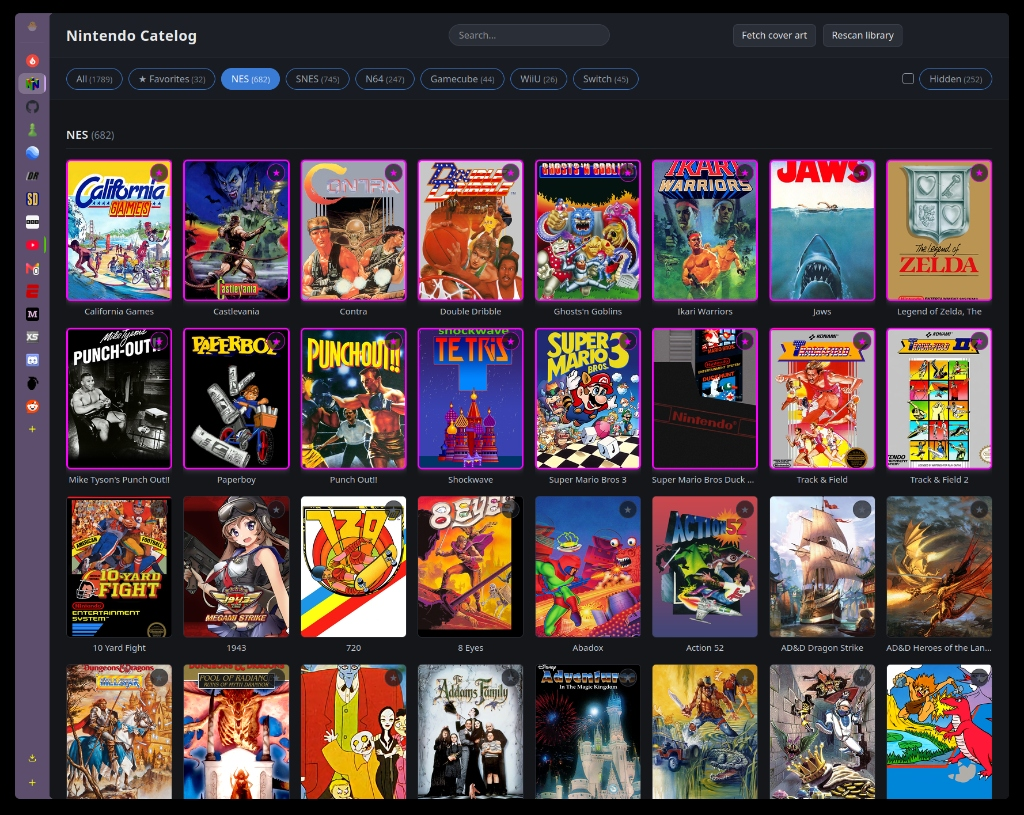
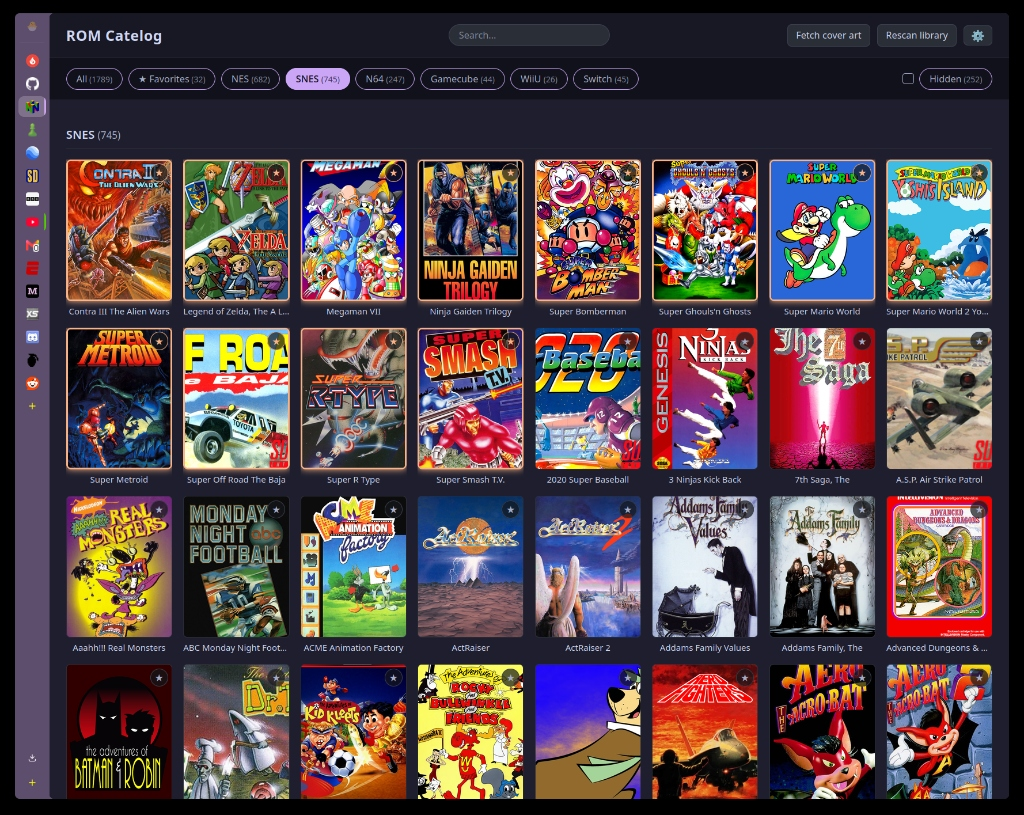
Update screenshots, documentation, and remove all emojis

diff --git a/templates/index.html b/templates/index.html
@@ -31,13 +31,13 @@
     <span id="status"></span>
     <button id="fetchCoversBtn">Fetch cover art</button>
     <button id="rescanBtn">Rescan library</button>
-    <button id="settingsBtn" title="Settings" class="icon-btn" aria-label="Settings">⚙</button>
+    <button id="settingsBtn" title="Settings" class="icon-btn" aria-label="Settings"><svg width="15" height="15" viewBox="0 0 24 24" fill="none" stroke="currentColor" stroke-width="2" stroke-linecap="round" stroke-linejoin="round"><circle cx="12" cy="12" r="3"></circle><path d="M19.4 15a1.65 1.65 0 0 0 .33 1.82l.06.06a2 2 0 0 1 0 2.83 2 2 0 0 1-2.83 0l-.06-.06a1.65 1.65 0 0 0-1.82-.33 1.65 1.65 0 0 0-1 1.51V21a2 2 0 0 1-2 2 2 2 0 0 1-2-2v-.09A1.65 1.65 0 0 0 9 19.4a1.65 1.65 0 0 0-1.82.33l-.06.06a2 2 0 0 1-2.83 0 2 2 0 0 1 0-2.83l.06-.06a1.65 1.65 0 0 0 .33-1.82 1.65 1.65 0 0 0-1.51-1H3a2 2 0 0 1-2-2 2 2 0 0 1 2-2h.09A1.65 1.65 0 0 0 4.6 9a1.65 1.65 0 0 0-.33-1.82l-.06-.06a2 2 0 0 1 0-2.83 2 2 0 0 1 2.83 0l.06.06a1.65 1.65 0 0 0 1.82.33H9a1.65 1.65 0 0 0 1-1.51V3a2 2 0 0 1 2-2 2 2 0 0 1 2 2v.09a1.65 1.65 0 0 0 1 1.51 1.65 1.65 0 0 0 1.82-.33l.06-.06a2 2 0 0 1 2.83 0 2 2 0 0 1 0 2.83l-.06.06a1.65 1.65 0 0 0-.33 1.82V9a1.65 1.65 0 0 0 1.51 1H21a2 2 0 0 1 2 2 2 2 0 0 1-2 2h-.09a1.65 1.65 0 0 0-1.51 1z"></path></svg></button>
   </div>
 </header>
 
 <nav class="tabs">
   <button class="tab active" data-target="all">All</button>
-  <button class="tab" data-target="favorites">★ Favorites</button>
+  <button class="tab" data-target="favorites">Favorites</button>
   {% for sys_id, sys_data in library.items() %}
   <button class="tab" data-target="{{ sys_id }}">{{ sys_data.name }} <span class="count">({{ sys_data.games|length }})</span></button>
   {% endfor %}
@@ -57,8 +57,8 @@
     <div class="grid">
       {% for game in sys_data.games %}
       <div class="card" data-system="{{ sys_id }}" data-path="{{ game.path }}" data-filename="{{ game.filename }}" data-favorite="{{ 'true' if game.favorite else 'false' }}" data-has-cover="{{ 'true' if game.cover else 'false' }}" data-hidden="{{ 'true' if game.hidden else 'false' }}">
-        <button class="star {{ 'active' if game.favorite else '' }}" title="Toggle favorite">★</button>
-        <button class="hide-toggle {{ 'active' if game.hidden else '' }}" title="{{ 'Unhide game' if game.hidden else 'Hide game' }}">{{ '👁' if game.hidden else '🙈' }}</button>
+        <button class="star {{ 'active' if game.favorite else '' }}" title="Toggle favorite"><svg width="12" height="12" viewBox="0 0 24 24" fill="currentColor"><polygon points="12 2 15.09 8.26 22 9.27 17 14.14 18.18 21.02 12 17.77 5.82 21.02 7 14.14 2 9.27 8.91 8.26 12 2"></polygon></svg></button>
+        <button class="hide-toggle {{ 'active' if game.hidden else '' }}" title="{{ 'Unhide game' if game.hidden else 'Hide game' }}"><svg width="13" height="13" viewBox="0 0 24 24" fill="none" stroke="currentColor" stroke-width="2" stroke-linecap="round" stroke-linejoin="round"><path d="M17.94 17.94A10.07 10.07 0 0 1 12 20c-7 0-11-8-11-8a18.45 18.45 0 0 1 5.06-5.94M9.9 4.24A9.12 9.12 0 0 1 12 4c7 0 11 8 11 8a18.5 18.5 0 0 1-2.16 3.19m-6.72-1.07a3 3 0 1 1-4.24-4.24"></path><line x1="1" y1="1" x2="23" y2="23"></line></svg></button>
         <div class="cover">
           {% if game.cover %}
             <img src="{{ game.cover }}" alt="{{ game.title }}" loading="lazy">
@@ -81,7 +81,7 @@
 
 <dialog id="settingsDialog" class="settings-dialog">
   <div class="modal-header">
-    <h3>⚙ Settings & Customization</h3>
+    <h3>Settings & Customization</h3>
     <button id="closeSettingsBtn" class="close-modal-btn" type="button" aria-label="Close">&times;</button>
   </div>
   <div class="modal-body">
@@ -228,7 +228,7 @@
           </div>
         </label>
         <label class="toggle-row">
-          <span>Show "★ Favorites" Tab</span>
+          <span>Show "Favorites" Tab</span>
           <div class="switch">
             <input type="checkbox" id="toggleFavoritesTab" {% if settings.visibility.show_favorites_tab %}checked{% endif %}>
             <span class="slider"></span>
@@ -357,7 +357,6 @@ document.querySelectorAll('.hide-toggle').forEach(btn => {
       if (data.ok) {
         card.dataset.hidden = data.hidden ? 'true' : 'false';
         btn.classList.toggle('active', data.hidden);
-        btn.textContent = data.hidden ? '👁' : '🙈';
         btn.title = data.hidden ? 'Unhide game' : 'Hide game';
         applyFilters();
       }

diff --git a/README.md b/README.md
@@ -1,4 +1,4 @@
-# Nintendo & Retro Emulator Web Catalog (ROM Cat)
+# ROM Cat: Retro & Modern Emulator Web Catalog
 
 [![Python](https://img.shields.io/badge/Python-3.10+-3776AB?logo=python&logoColor=white)](https://python.org)
 [![Flask](https://img.shields.io/badge/Flask-Web%20Framework-000000?logo=flask&logoColor=white)](https://flask.palletsprojects.com/)
@@ -6,25 +6,35 @@
 [![YAML](https://img.shields.io/badge/Config-YAML-CB171E?logo=yaml&logoColor=white)](https://yaml.org)
 [![Linux](https://img.shields.io/badge/Platform-Linux%20%2F%20Wayland%20%2F%20X11-FCC624?logo=linux&logoColor=black)](https://kernel.org)
 
-A fast, lightweight, self-hosted web catalog and remote launcher for your retro and modern ROM collection. It runs locally alongside your installed emulators (Flatpak or native binaries), providing an interactive web dashboard with cover art, system filtering, instant search, favorites tracking, and one-click game launching directly into native desktop emulator windows.
+A fast, lightweight, self-hosted web catalog and remote launcher for your retro and modern ROM collection. It runs locally alongside your installed emulators (Flatpak, AppImage, or native binaries), providing an interactive web dashboard with cover art, system filtering, instant search, favorites tracking, one-click game launching, and customizable themes.
 
 ---
 
-## Screenshot
+## Screenshots
 
-![Nintendo Catalog Dashboard](screenshots/catalog.jpg)
+### Main Dashboard (Catppuccin Theme)
+![ROM Catalog Dashboard](screenshots/catalog.jpg)
+
+### Settings & Customization Modal
+![Settings Modal](screenshots/settings.png)
+
+### Nord Frost Theme
+![Nord Theme](screenshots/nord.jpg)
 
 ---
 
 ## Features
 
 - **Direct Native Emulator Launching**: Games launch in your real desktop emulators (Flatpak, native binaries, or RetroArch cores) on the host machine. No slow or inaccurate in-browser emulation.
+- **Built-in Settings & Theme Customization**: Click the gear icon in the header to customize the catalog title, select from 6 built-in theme presets, or configure custom colors with live previews.
+- **Automatic High-Contrast Text**: Active tab text dynamically detects background color luminance to ensure legibility on both bright and dark themes.
+- **UI Visibility Controls**: Toggle visibility of the search bar, cover scraping buttons, rescan button, numeric ROM counts, and tabs.
 - **System Tabs & Live Counters**: Instant switching between systems (e.g. NES, SNES, N64, Gamecube, Wii U, Switch, Favorites, All, Hidden).
 - **Fast Search & Filtering**: Real-time title search across thousands of ROMs with automatic title normalization (stripping tags like `[!]`, `(USA)`, `(Rev 1)`, `.nkit`).
 - **Automated Cover Art Scraping**: One-click cover fetching from SteamGridDB with automatic image optimization and local caching in `static/covers/`.
 - **Manual Cover Art Override**: Drop custom cover art directly into the web UI or filesystem for unmatched or homebrew titles.
 - **Favorites & Visibility Management**: Toggle game favorites with custom glowing highlights, or hide unwanted duplicates/updates from the main catalog.
-- **Zero Heavy Databases**: Library state is indexed dynamically from your real directory structure, with cached metadata stored in lightweight JSON files.
+- **Zero Heavy Databases**: Library state is indexed dynamically from your real directory structure, with cached metadata and settings stored in lightweight JSON files.
 
 ---
 
@@ -67,6 +77,46 @@ Open your browser and navigate to:
 http://localhost:8420
 ```
 Or use your machine's local IP / Tailscale IP (e.g. `http://<server-ip>:8420`).
+
+---
+
+## Settings and Customization
+
+ROM Cat includes a Settings interface directly in the web UI (accessible via the gear icon in the top header).
+
+### 1. General Settings
+- **Catalog Title**: Update the dashboard title and browser tab title on the fly.
+
+### 2. Theme Presets
+- **Default Dark**: Slate dark background with blue accents and magenta favorite glow.
+- **Pure OLED**: Pitch black (`#000000`) background with cyan accents and gold favorite highlights.
+- **Catppuccin**: Soft purple pastel theme with lavender accents and peach borders.
+- **Cyberpunk**: Dark neon theme with bright yellow accents and hot pink glow.
+- **Nord Frost**: Arctic blue and slate gray palette with soft amber highlights.
+- **Emerald**: Forest dark green background with emerald accents and sky blue highlights.
+
+### 3. Custom Color Pickers
+Every color element can be fine-tuned individually with real-time live preview:
+- Body Background
+- Header Bar
+- Tabs Bar
+- Card Background
+- Primary Accent (Tabs & Focus rings)
+- Selected Tab Text Color (with automatic luminance contrast detection)
+- Favorite Star & Glowing Border
+- Primary Text
+- Muted Text & Details
+
+### 4. UI Visibility Toggles
+Customize which elements appear on your dashboard:
+- Show / Hide Search Bar
+- Show / Hide "Fetch Cover Art" Button
+- Show / Hide "Rescan Library" Button
+- Show / Hide ROM Count Badges (e.g. `(42)`)
+- Show / Hide "Favorites" Tab
+- Show / Hide "Hidden" Tab & Hide Controls
+
+Settings are stored on disk in `settings.json` and persist across all devices connected to your network.
 
 ---
 
@@ -171,101 +221,6 @@ To add a new console (for example, Game Boy Advance):
 
 ---
 
-## How to Edit Colors and Theme
-
-All styles, colors, active tabs, buttons, borders, and glow effects are managed in:
-`static/css/style.css`
-
-### Color Reference Table
-
-| UI Element | CSS Selector | Default Color | Description |
-|---|---|---|---|
-| **Main Background** | `body` | `#14161a` | Dark background for the whole page |
-| **Primary Text** | `body` | `#e8e8e8` | Base text color |
-| **Header Bar** | `header` | `#1c1f26` | Top navigation bar background |
-| **System Tabs Bar** | `.tabs` | `#181b21` | Category pill bar background |
-| **Borders & Dividers** | `header`, `.tabs`, `h2` | `#2a2e37` | Subtle section divider borders |
-| **Button Background** | `button` | `#2a2e37` | Standard button background |
-| **Button Border** | `button` | `#3a3f4b` | Standard button border |
-| **Button Hover** | `button:hover` | `#343a46` | Button background when hovered |
-| **Active Tab Background** | `.tab.active` | `#3a7bd5` | Blue accent on selected system tab |
-| **Tab Outline** | `.tab` | `#3a7bd5` | Inactive tab pill border |
-| **Search Input Box** | `#searchInput` | `#2a2e37` | Search input background |
-| **Search Focus Outline** | `#searchInput:focus` | `#3a7bd5` | Search box glowing highlight |
-| **Cover Card Box** | `.cover` | `#22262e` | Default cover background placeholder |
-| **Favorite Star (Inactive)** | `.star` | `#5a6270` | Gray inactive favorite star icon |
-| **Favorite Star (Hover)** | `.star:hover` | `#d5acd6` | Light magenta star on hover |
-| **Favorite Star (Active)** | `.star.active` | `#ff00ff` | Bright magenta star when favorited |
-| **Favorite Card Border** | `.card[data-favorite="true"] .cover` | `#ff00ff` | 3px magenta border on favorited cards |
-| **Favorite Card Glow** | `.card[data-favorite="true"] .cover` | `rgba(213, 172, 214, 0.4)` | Outer box-shadow glow on favorited cards |
-| **Hidden Item Toggle** | `.hide-toggle:hover` | `#e07a7a` | Red outline on hide button hover |
-
----
-
-### Customizing Key Color Elements
-
-#### 1. Changing the Primary Accent Color (Tabs & Focus)
-To change the blue accent color across the tabs and search box, update `#3a7bd5` in `static/css/style.css`:
-
-```css
-/* Inactive tab border */
-.tab {
-  border: 1px solid #3a7bd5; /* Replace with your color */
-}
-
-/* Active tab highlight */
-.tab.active {
-  background: #3a7bd5;     /* Replace with your color */
-  border-color: #3a7bd5; /* Replace with your color */
-  color: #fff;
-}
-
-/* Search bar focus ring */
-#searchInput:focus {
-  border-color: #3a7bd5;
-  box-shadow: 0 0 6px rgba(58, 123, 213, 0.3);
-}
-```
-
-#### 2. Changing the Favorite Star and Card Glow Color
-To change the bright magenta favorite glow to gold, green, cyan, or red, update lines 188-234 in `static/css/style.css`:
-
-```css
-/* Star icon active color */
-.star.active {
-  color: #f1c40f; /* e.g. Gold */
-  border-color: #f1c40f;
-}
-
-/* Favorite card glowing border */
-.card[data-favorite="true"] .cover {
-  border: 3px solid #f1c40f;
-  box-shadow: 0 0 12px rgba(241, 196, 15, 0.5);
-}
-```
-
-#### 3. Changing Dark Theme Backgrounds
-To adjust darkness levels (e.g. Pure OLED Black `#000000` or Catppuccin Mocha `#1e1e2e`):
-
-```css
-body {
-  background: #11111b;
-  color: #cdd6f4;
-}
-
-header {
-  background: #181825;
-  border-bottom: 1px solid #313244;
-}
-
-.tabs {
-  background: #181825;
-  border-bottom: 1px solid #313244;
-}
-```
-
----
-
 ## How Cover Art Scraping Works
 
 1. **Automatic Scraping with SteamGridDB**:
@@ -287,16 +242,19 @@ header {
 
 ```text
 Emulator-Web-Catelog/
-├── README.md                # Full documentation, emulator guides, and color customizations
+├── README.md                # Full documentation, configuration guides, and theme options
 ├── config.yaml              # System definitions, ROM folder paths, and emulator commands
 ├── app.py                   # Flask server, library scanner, SteamGridDB client, and launcher
 ├── requirements.txt         # Python dependencies (flask, pyyaml, requests, pillow, ujson)
+├── settings.json            # User customizable title, theme colors, and UI visibility options
 ├── favorites.json           # Saved user favorites list
 ├── hidden.json              # List of hidden ROM keys (updates, duplicates, DLCs)
 ├── library.json             # Cached library metadata for instant page load performance
 ├── .gitignore               # Ignore cache, logs, virtual environments, and scraped covers
 ├── screenshots/
-│   └── catalog.jpg          # Application dashboard screenshot
+│   ├── catalog.jpg          # Application dashboard screenshot (Catppuccin theme)
+│   ├── settings.png         # Settings and customization modal screenshot
+│   └── nord.jpg             # Application dashboard screenshot (Nord Frost theme)
 ├── static/
 │   ├── favicon.png          # Web browser favicon
 │   ├── covers/              # Local cache directory for game boxart
@@ -304,7 +262,7 @@ Emulator-Web-Catelog/
 │   └── css/
 │       └── style.css        # CSS styles, theme variables, grid layout, and glow animations
 └── templates/
-    └── index.html           # Main dashboard template with search, tabs, and launching modal
+    └── index.html           # Main dashboard template with search, tabs, settings, and launching modal
 ```
 
 ---
@@ -351,3 +309,4 @@ systemctl --user status romcat.service
 ## License
 
 Created and maintained by [PlasmaDrifter](https://github.com/PlasmaDrifter). Distributed for personal and self-hosted use.
+
